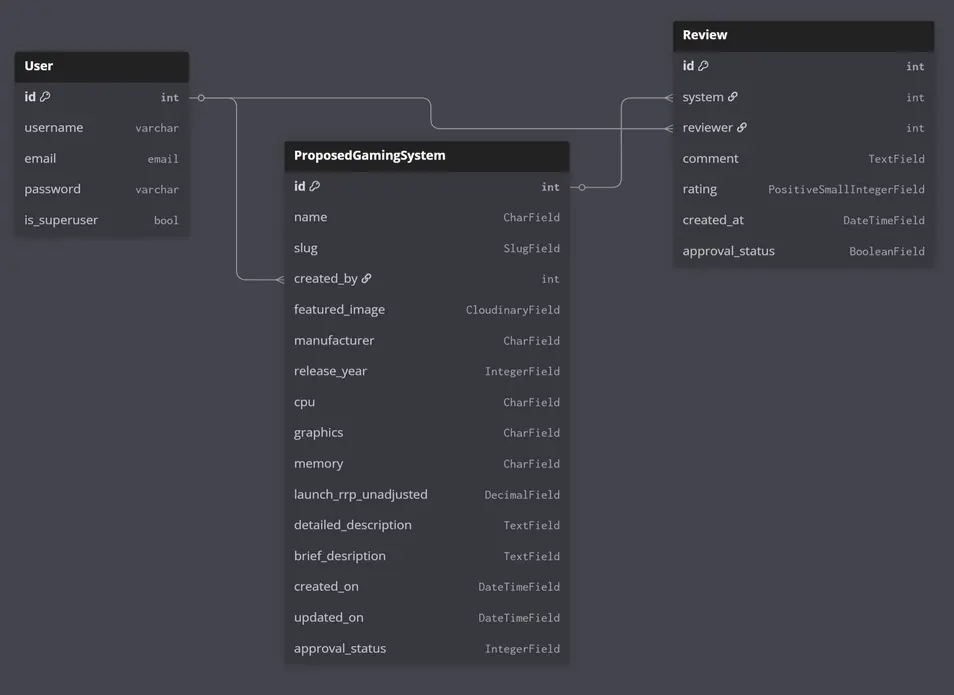
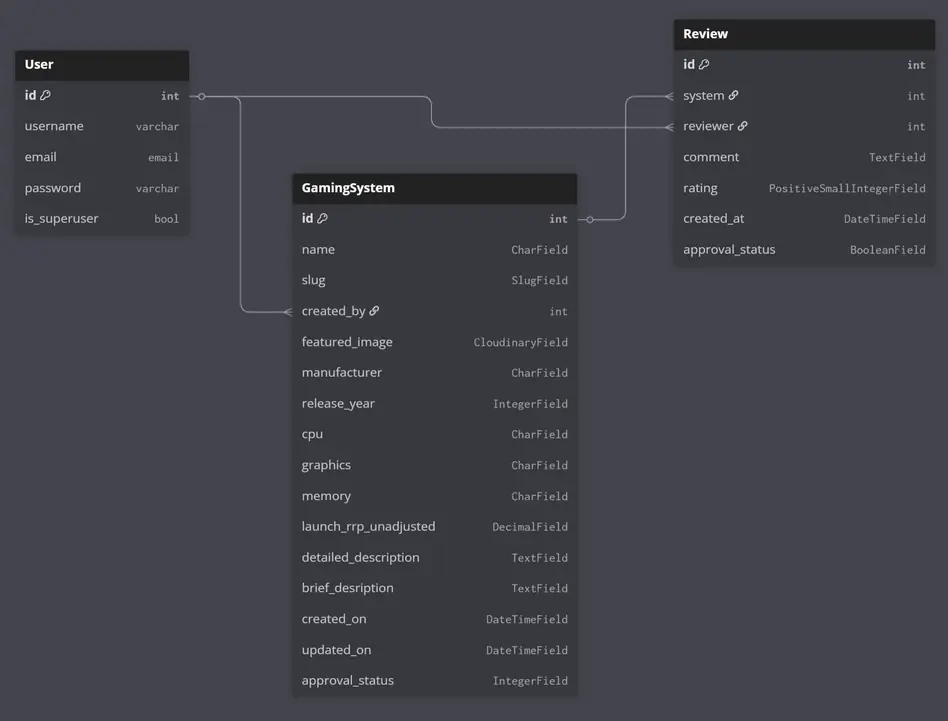
put detailed_description inside <p> tags in system_detailed.html. Update erd diagram for readme, add new colour folder and colours file to readme-assets

diff --git a/spec_a_console/templates/spec_a_console/system_detail.html b/spec_a_console/templates/spec_a_console/system_detail.html
@@ -31,7 +31,7 @@
                     <p><strong>Brief Description:</strong> {{ system.brief_description }}</p>
                     <hr>
                     <h3 class="h6">Detailed Description</h3>
-                    {{ system.detailed_description }}
+                    <p>{{ system.detailed_description }}</p>
                     <hr>
                     <p class="text-muted small">Created by: {{ system.created_by.username }} on 
                         {{system.created_on|date:"F j, Y" }}</p>

diff --git a/README.md b/README.md
@@ -29,7 +29,8 @@ Example of desktop resolution scaling:
     - [User Stories](#user-stories)
     - [MoSCoW Prioritisation](#moscow-prioritisation)
     - [Project KanBan Board](#project-kanban-board)
-- [Design](#design)
+    - [Entity Relationship Diagram (ERD)](#entity-relationship-diagram-erd)
+    - [Wireframes](#wireframes)
 - [Features](#features)
 - [Technologies and Languages](#technologies-and-languages)
 - [Deployment](#deployment)
